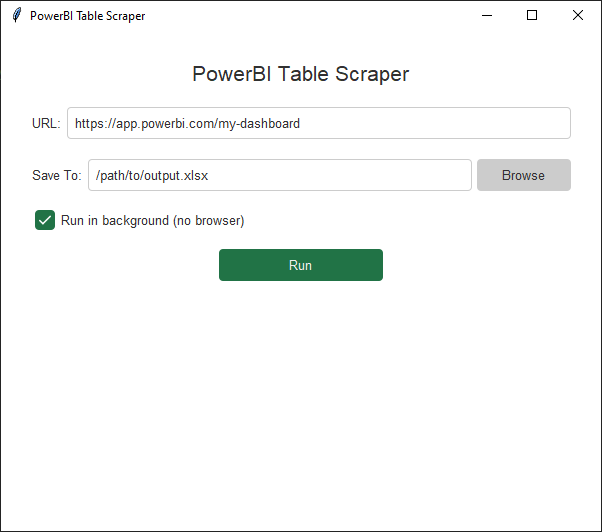
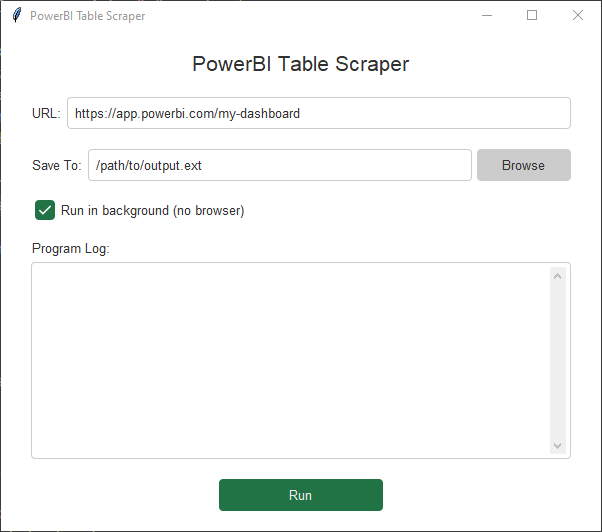
GUI: Add widget with program log

diff --git a/src/gui/gui.py b/src/gui/gui.py
@@ -2,19 +2,37 @@ import logging
 import os
 import random
 import threading
+import time
 import tkinter as tk
 from dataclasses import dataclass
 from pathlib import Path
 from threading import ExceptHookArgs, Thread
 from tkinter import filedialog, messagebox, ttk
+from tkinter.scrolledtext import ScrolledText
 from typing import Any, Callable
 
 import pandas as pd
+from typing_extensions import override
 
 import src.utils as utils
 from src.config import GuiConfig, OutputFormat
 
 logger = logging.getLogger(__name__)
+
+
+# Writes the log to the given text widget
+class LogToWidgetHandler(logging.Handler):
+    def __init__(self, widget: tk.Text):
+        logging.Handler.__init__(self)
+        self.text_widget = widget
+
+    @override
+    def emit(self, record: logging.LogRecord):
+        # Enable editing of the text widget in order to insert the log
+        self.text_widget.configure(state=tk.NORMAL)
+        self.text_widget.insert(tk.END, record.msg + "\n")
+        self.text_widget.configure(state=tk.DISABLED)
+        self.text_widget.see(tk.END)  # Scroll to the bottom of the text widget
 
 
 class UiState:
@@ -59,14 +77,6 @@ class ScraperGui:
         self.root.tk.call("source", THEME_PATH)
         style.theme_use(THEME_NAME)
 
-        # TODO: Add log stream to program output frame
-        # program_output_frame = ttk.LabelFrame(
-        #     self.root, text="Program Output", padding=(20, 10)
-        # )
-        # program_output_frame.grid(
-        #     row=1, column=0, padx=(20, 10), pady=10, sticky="nsew"
-        # )
-
         # Init UI state variables
         self.state = UiState(
             url=default_url,
@@ -88,6 +98,7 @@ class ScraperGui:
             self.path_browse_button,
         ) = self.create_path_frame(main_frame)
         self.headless_checkbox = self._create_headless_checkbox(main_frame)
+        self.log_frame = self._create_log_frame(main_frame)
         self.run_button = self._create_run_button(main_frame)
 
         # Bind variable changes to widget updates
@@ -109,6 +120,35 @@ class ScraperGui:
         # url_entry.configure(background="purple")
         # url_frame.configure(background="cyan")
 
+    def _create_log_frame(self, main_frame: ttk.Frame):
+        log_frame = ttk.Frame(
+            main_frame,
+        )
+        # Label
+        log_label = ttk.Label(log_frame, text=self.lang["label_program_log"] + ":")
+        log_label.pack(anchor="w", pady=(0, 5))
+
+        # Border: Use entry to get themed border as no Text ttk widget exists
+        log_border = ttk.Entry(log_frame, state="readonly")
+        log_border.pack(anchor=tk.CENTER, fill=tk.BOTH, expand=True)
+
+        # Text with scrollbar and no border
+        log_text = ScrolledText(
+            log_border,
+            state=tk.DISABLED,
+            border=0,
+            wrap="word",
+            height=10,  # XXX Setting height will cause widget to expand (fill) correctly without pushing widgets below it out of frame. Not sure why
+        )
+        log_text.pack(padx=5, pady=5, anchor=tk.CENTER, fill=tk.BOTH, expand=True)
+
+        log_frame.pack(pady=10, anchor=tk.CENTER, fill=tk.BOTH, expand=True)
+
+        # Connect to root logger
+        root_logger = logging.getLogger()
+        handler = LogToWidgetHandler(log_text)
+        root_logger.addHandler(handler)
+
     def _center_window(self):
         screen_width = self.root.winfo_screenwidth()
         screen_height = self.root.winfo_screenheight()
@@ -119,12 +159,6 @@ class ScraperGui:
 
         self.root.geometry("%dx%d+%d+%d" % (WIDTH, HEIGHT, x, y))
 
-    # def _on_output_path_changed(self, *args: Any):
-    #     if self.state.output_path.get() == "":
-    #         self.path_entry.configure(text=self.lang["path_placeholder"], fg="grey")
-    #     else:
-    #         self.path_entry.configure(text=self.state.output_path.get(), fg="black")
-
     def _on_submit_args_changed(self, *args: Any):
         # Do some basic input validation
         is_input_valid = (
@@ -134,7 +168,7 @@ class ScraperGui:
             and not self.state.output_path.get().strip() == ""
         )
         # Enable run button if input is valid
-        self.run_button.configure(state="normal" if is_input_valid else "disabled")
+        self.run_button.configure(state=tk.NORMAL if is_input_valid else tk.DISABLED)
 
     def show(self):
         try:
@@ -143,36 +177,15 @@ class ScraperGui:
             self._show_error(e)
 
     def create_main_frame(self, root: tk.Tk) -> ttk.Frame:
-        self.root.grid_rowconfigure(1, weight=1)
-        self.root.grid_columnconfigure(1, weight=1)
-
-        MARGIN = 20
-
-        # Create spacers for margins
-        ttk.Frame(self.root, width=MARGIN + 10).grid(
-            row=0, column=0, sticky="nsew"
-        )  # Left spacer
-        ttk.Frame(self.root, width=MARGIN + 10).grid(
-            row=0, column=2, sticky="nsew"
-        )  # Right spacer
-        ttk.Frame(self.root, height=MARGIN).grid(
-            row=0, column=1, sticky="nsew"
-        )  # Top spacer
-        ttk.Frame(self.root, height=MARGIN).grid(
-            row=2, column=1, sticky="nsew"
-        )  # Bottom spacer
-
-        main_frame = ttk.Frame(self.root)
-        main_frame.grid(row=1, column=1, sticky="nsew")
-        main_frame.pack_propagate(
-            False
-        )  # Prevent widgets from determining the frame's size
-
+        main_frame = ttk.Frame(root)
+        main_frame.pack(pady=10, padx=30, fill=tk.BOTH, expand=True)
         return main_frame
 
     def create_title(self, main_frame: ttk.Frame) -> ttk.Label:
         title_label = ttk.Label(
-            main_frame, text=self.config.program_name, font=("Arial", 16)
+            main_frame,
+            text=self.config.program_name,
+            font=("Arial", 16),
         )
         title_label.pack(pady=10, anchor="center")
         return title_label
@@ -195,19 +208,6 @@ class ScraperGui:
         path_label = ttk.Label(
             path_frame, text=self.lang["label_save_to_path"] + ":", anchor="w"
         )
-
-        # # Make a clickable entry label to select a path
-        # path_entry = tk.Label(
-        #     path_frame,
-        #     relief="sunken",
-        #     anchor="w",
-        #     fg="grey",
-        #     padx=2,
-        #     textvariable=self.state.output_path,
-        # )
-
-        # # Make label act like a button
-        # path_entry.bind("<Button-1>", self._browse_file_location)
 
         # Make a readonly entry
         path_entry = ttk.Entry(
@@ -277,7 +277,7 @@ class ScraperGui:
             text=self.lang["button_run"],
             width=20,
             command=on_run_button_click,
-            state="disabled",
+            state=tk.DISABLED,
             style="Accent.TButton",
         )
         run_button.pack(pady=10, anchor="center")
@@ -285,6 +285,7 @@ class ScraperGui:
 
     # Open a file dialog to select a file location
     def _browse_file_location(self, *args: Any):
+        logger.debug("Opening file dialog to select a file location")
         filepath_str = filedialog.asksaveasfilename(
             defaultextension=".xlsx",
             filetypes=[("Excel files", "*.xlsx"), ("All files", "*.*")],
@@ -345,7 +346,7 @@ class ScraperGui:
 
     # Updates the widgets when working (we cant bind state variables directly to widget states, it seems?)
     def _on_working_changed(self, *args: Any):
-        status = "disabled" if self.state.is_working.get() else "normal"
+        status = tk.DISABLED if self.state.is_working.get() else tk.NORMAL
         logger.debug(f"Setting widgets to status: {status}")
         self.url_entry.configure(state=status)
         # self.path_entry.configure(state=status)
